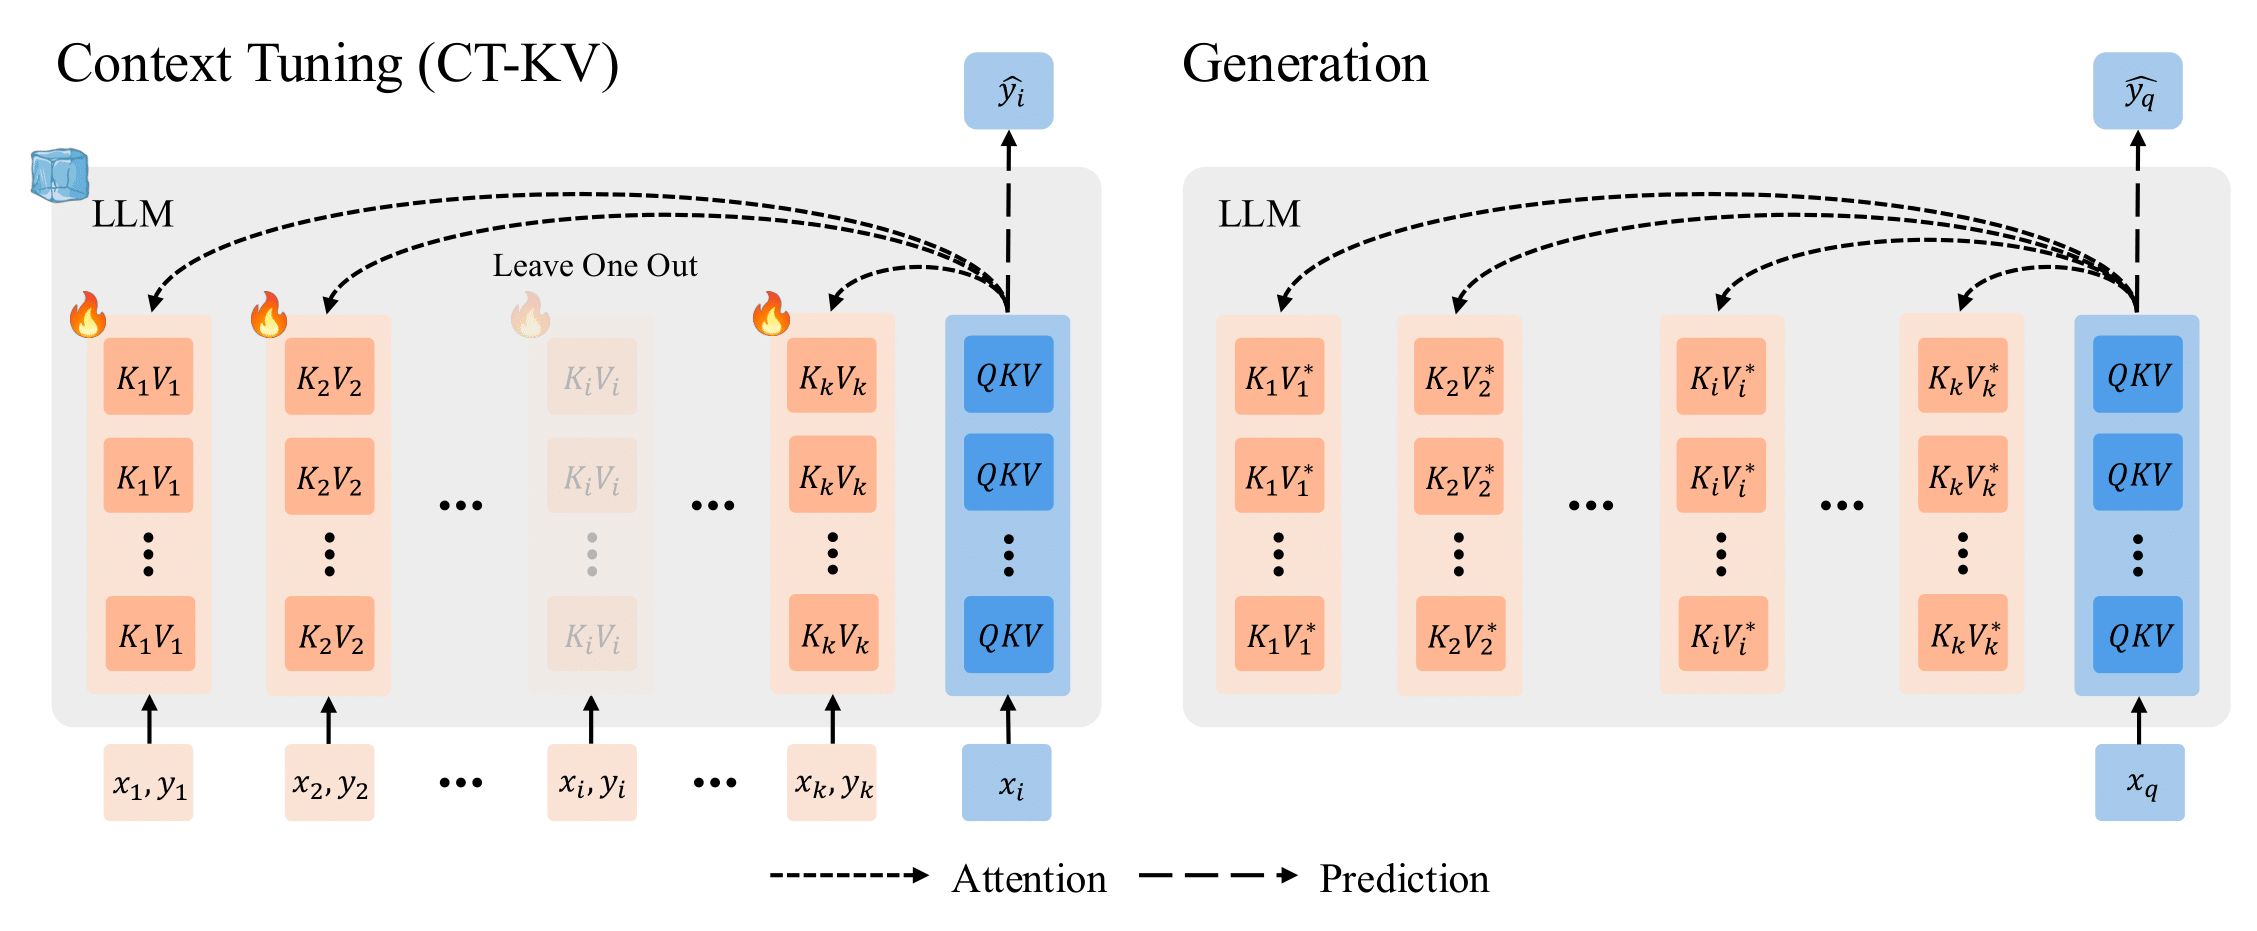
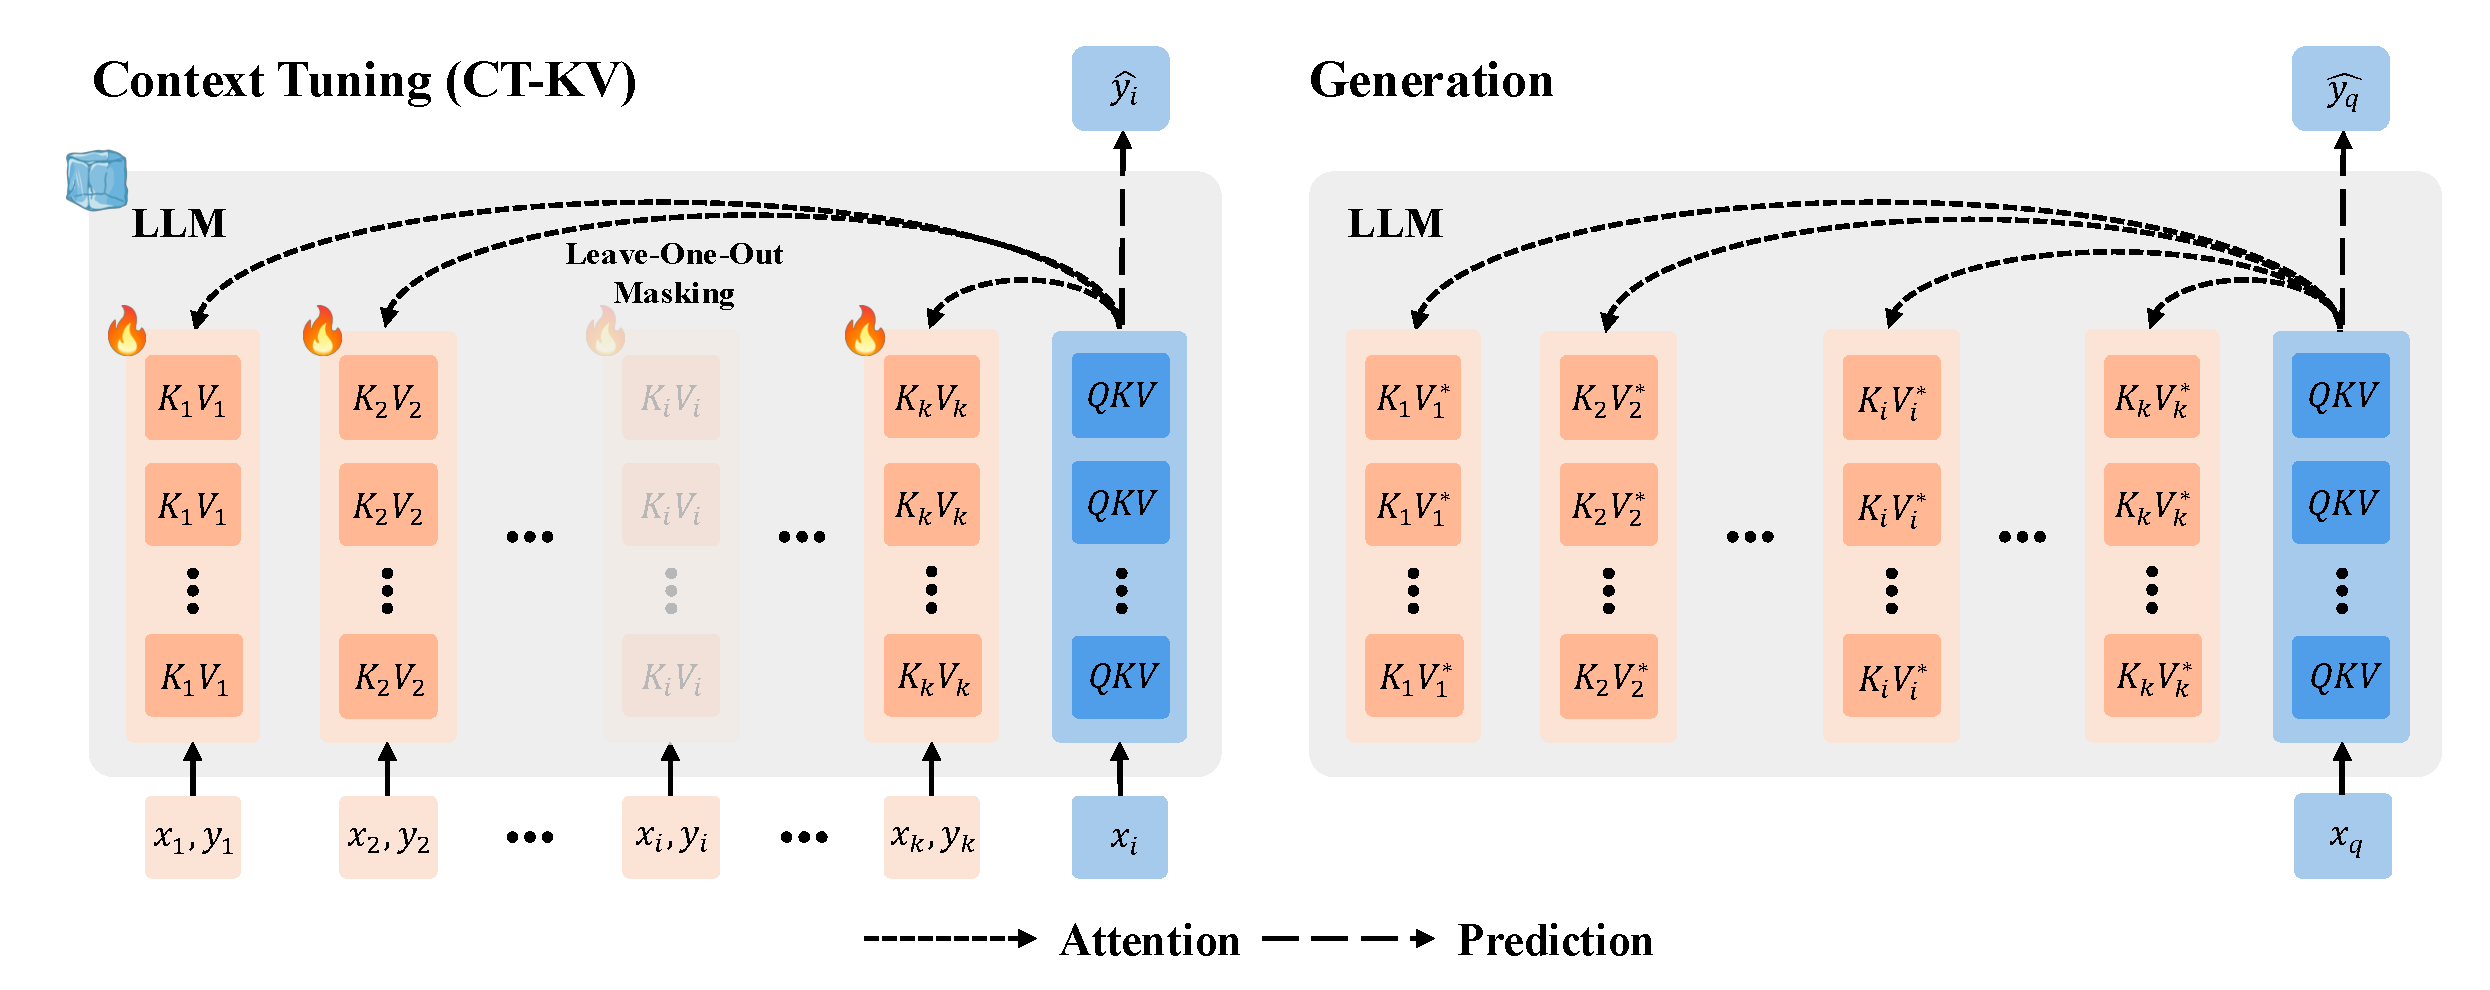
Update setup and publication details

diff --git a/README.md b/README.md
@@ -10,17 +10,19 @@ Public code release for the paper "Context Tuning for In-Context Optimization".
 
 ## Setup
 
-Set up the Conda environment with `requirements.txt` to set up packages.
-```
-conda create --name contexttuning python=3.10
-conda activate contexttuning
-pip install -r requirements.txt
+Install [uv](https://docs.astral.sh/uv/getting-started/installation/), then create a Python 3.10 virtual environment and install the dependencies for CUDA 12.1.
+
+```bash
+uv venv --python 3.10
+uv pip install --torch-backend cu121 -r requirements.txt
 ```
 
-Download NLP-LR data (7.2GB).
-```
-conda install -c conda-forge git-lfs
-git clone https://huggingface.co/datasets/allenai/metaicl-data
+Download the NLP-LR data (7.2GB) directly from Hugging Face.
+
+```bash
+uv run hf download allenai/metaicl-data \
+    --repo-type dataset \
+    --local-dir metaicl-data
 ```
 
 ---
@@ -28,8 +30,9 @@ git clone https://huggingface.co/datasets/allenai/metaicl-data
 ## Commands
 
 Zero-Shot Prompting:
-```
-accelerate launch --mixed_precision bf16 train.py \
+
+```bash
+uv run accelerate launch --mixed_precision bf16 train.py \
     --experiment_name zeroshot \
     --zero_shot \
     --eval_split 87
@@ -38,9 +41,10 @@ accelerate launch --mixed_precision bf16 train.py \
 ```
 
 
-Standard In-Context Learning with 16 demonstrations pairs:
-```
-accelerate launch --mixed_precision bf16 train.py \
+Standard In-Context Learning with 16 demonstration pairs:
+
+```bash
+uv run accelerate launch --mixed_precision bf16 train.py \
     --experiment_name icl \
     --eval_split 87
 
@@ -48,8 +52,9 @@ accelerate launch --mixed_precision bf16 train.py \
 ```
 
 CT-KV with 16 demonstration pairs:
-```
-accelerate launch --mixed_precision bf16 train.py \
+
+```bash
+uv run accelerate launch --mixed_precision bf16 train.py \
     --experiment_name ctkv \
     --epochs 200 \
     --eval_split 87
@@ -59,16 +64,15 @@ accelerate launch --mixed_precision bf16 train.py \
 
 ---
 
-# Citation
+## Citation
 
 If you have any questions or find any bugs, please feel free to contact Jack Lu (yl11330@nyu.edu). If you found our work helpful, please consider giving us a ⭐ and citing us!
+
 ```bibtex
-@misc{lu2025contexttuning,
-      title={Context Tuning for In-Context Optimization},
-      author={Jack Lu and Ryan Teehan and Zhenbang Yang and Mengye Ren},
-      year={2025},
-      eprint={2507.04221},
-      archivePrefix={arXiv},
-      primaryClass={cs.CL}
+@inproceedings{lu2026contexttuning,
+  title     = {Context Tuning for In-Context Optimization},
+  author    = {Lu, Jack and Teehan, Ryan and Yang, Zhenbang and Ren, Mengye},
+  booktitle = {International Conference on Machine Learning (ICML)},
+  year      = {2026}
 }
 ```
